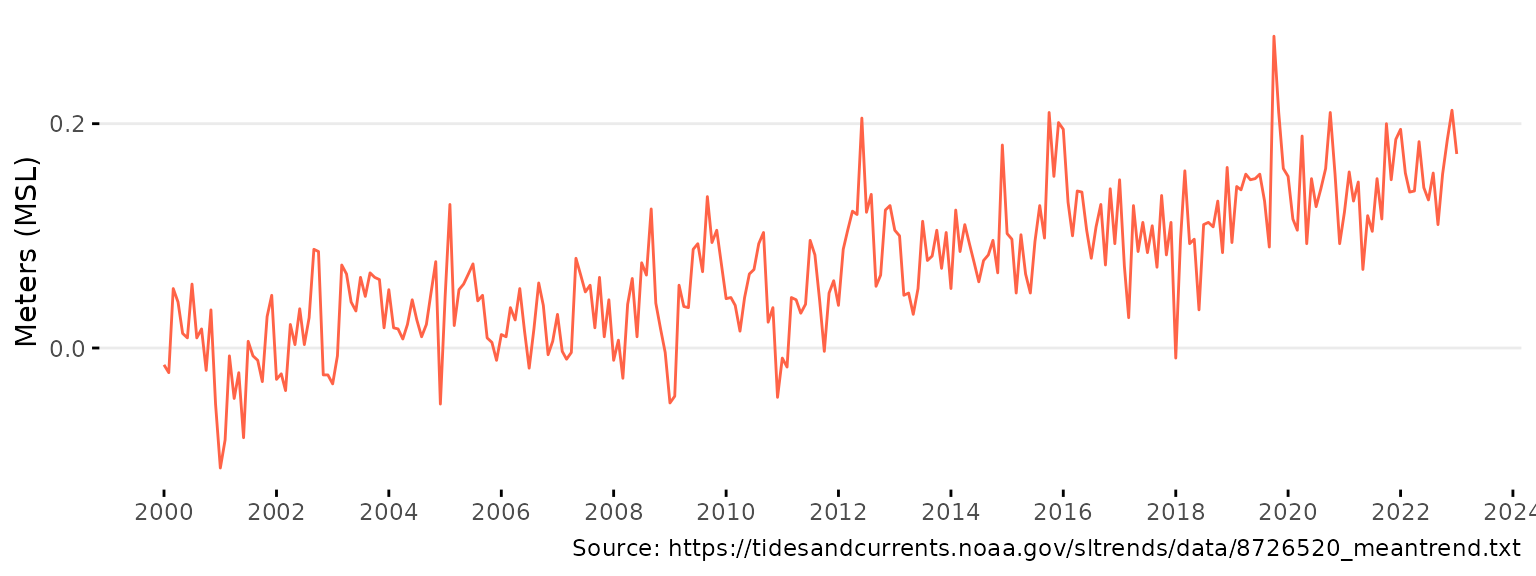
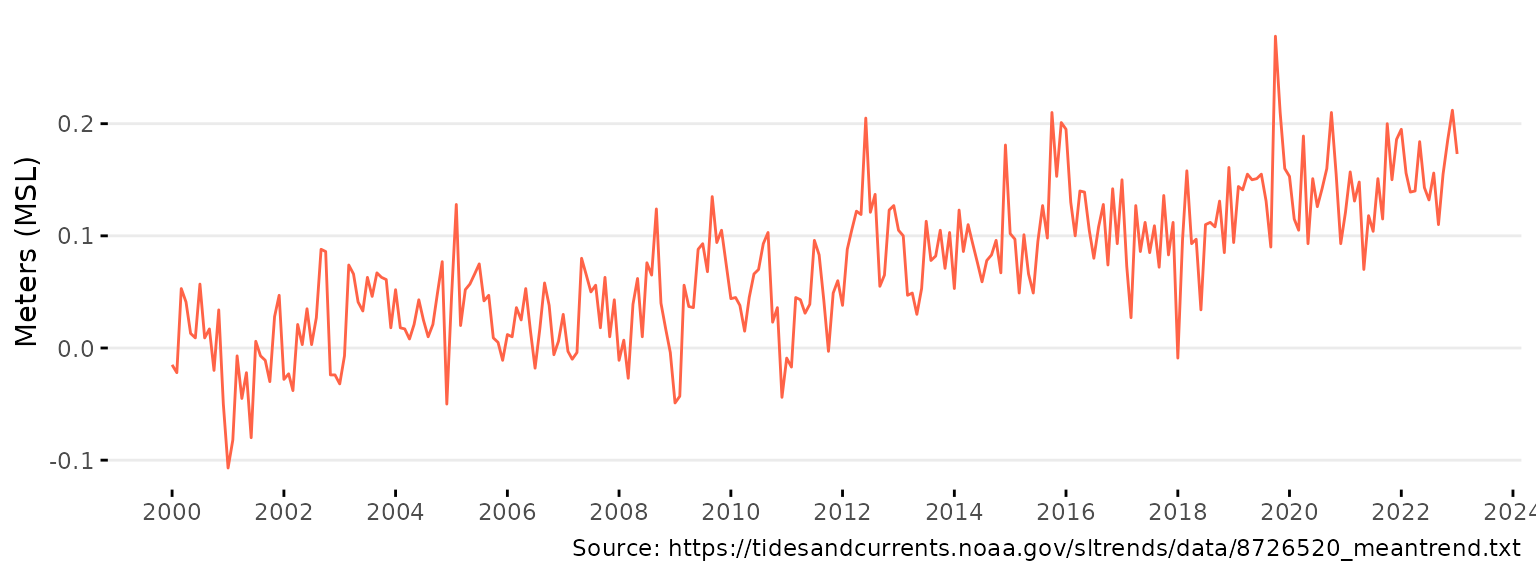
Deploying to gh-pages from @ tbep-tech/slrcsap@6c4b8cc1cbcf0d20b5f163878e25b505e070ef27 🚀

diff --git a/articles/slrcsap.html b/articles/slrcsap.html
@@ -58,6 +58,7 @@
 
       <h1>Getting started</h1>
             
+            <h4 data-toc-skip class="date">2025-05-23</h4>
       
       <small class="dont-index">Source: <a href="https://github.com/tbep-tech/slrcsap/blob/main/vignettes/slrcsap.Rmd"><code>vignettes/slrcsap.Rmd</code></a></small>
       <div class="d-none name"><code>slrcsap.Rmd</code></div>
@@ -159,8 +160,8 @@ add a title and change the theme.</p>
 <p>Sea level rise scenarios can be downloaded using the
 <code><a href="../reference/get_scenario.html">get_scenario()</a></code> function. Data are downloaded from the <a href="https://sealevel.nasa.gov/task-force-scenario-tool" target='"_blank' class="external-link">Interagency Sea Level Rise Scenario Tool</a>
 website. Details of the methods used in this tool are found in the
-technical report <span class="citation">[@sweet2022]</span>. The data
-are downloaded as an Excel sheet to from the URL <a href="https://sealevel.nasa.gov/task-force-scenario-tool?psmsl_id=520" class="external-link uri">https://sealevel.nasa.gov/task-force-scenario-tool?psmsl_id=520</a>,
+technical report <span class="citation">[1]</span>. The data are
+downloaded as an Excel sheet to from the URL <a href="https://sealevel.nasa.gov/task-force-scenario-tool?psmsl_id=520" class="external-link uri">https://sealevel.nasa.gov/task-force-scenario-tool?psmsl_id=520</a>,
 set to St. Petersburg, FL by default using regionally corrected NOAA
 2022 curves. Emissions scenarios of NOAA Intermediate Low, Intermediate,
 and Intermediate High are downloaded by default, as recommended by the
@@ -229,9 +230,23 @@ add a title, subtitle, and change the theme.</p>
 <p><img src="slrcsap_files/figure-html/unnamed-chunk-13-1.png" width="768" style="display: block; margin: auto;"></p>
 </div>
 </div>
-<div class="section level2">
-<h2 id="references">References<a class="anchor" aria-label="anchor" href="#references"></a>
+<div class="section level2 unnumbered">
+<h2 class="unnumbered" id="references">References<a class="anchor" aria-label="anchor" href="#references"></a>
 </h2>
+<div id="refs" class="references csl-bib-body" entry-spacing="0">
+<div id="ref-sweet2022" class="csl-entry">
+<div class="csl-left-margin">[1] </div>
+<div class="csl-right-inline">W.V. Sweet, B.D. Hamlington, R.E. Kopp, C.P.
+Weaver, P.L. Barnard, D. Bekaert, W. Brooks, M. Craghan, G. Dusek, T.
+Frederikse, G. Garner, A.S. Genz, J.P. Krasting, E. Larour, D. Marcy,
+J.J. Marra, J. Obeysekera, M. Osler, M. Pendleton, D. Roman, L. Schmied,
+W. Veatch, K.D. White, C. Zuzak, Global and regional sea level rise
+scenarios for the <span>U</span>nited <span>S</span>tates: Updated mean
+projections and extreme water level probabilities along
+<span>U.S.</span> coastlines, National Oceanic; Atmospheric
+Administration, National Ocean Service, Silver Spring, MD, 2022. <a href="https://oceanservice.noaa.gov/hazards/sealevelrise/noaa-nostechrpt01-global-regional-SLR-scenarios-US.pdf" class="external-link">https://oceanservice.noaa.gov/hazards/sealevelrise/noaa-nostechrpt01-global-regional-SLR-scenarios-US.pdf</a>.</div>
+</div>
+</div>
 </div>
   </main><aside class="col-md-3"><nav id="toc" aria-label="Table of contents"><h2>On this page</h2>
     </nav></aside>

diff --git a/reference/plot_sealevel.html b/reference/plot_sealevel.html
@@ -51,7 +51,7 @@
 <span>  xrng <span class="op">=</span> <span class="cn">NULL</span>,</span>
 <span>  xbrk <span class="op">=</span> <span class="fl">10</span>,</span>
 <span>  yrng <span class="op">=</span> <span class="cn">NULL</span>,</span>
-<span>  ybrk <span class="op">=</span> <span class="fl">3</span></span>
+<span>  ybrk <span class="op">=</span> <span class="fl">5</span></span>
 <span><span class="op">)</span></span></code></pre></div>
     </div>
 
@@ -88,7 +88,7 @@
 
 
 <dt id="arg-ybrk">ybrk<a class="anchor" aria-label="anchor" href="#arg-ybrk"></a></dt>
-<dd><p>numeric, number of y-axis breaks. Default is <code>3</code>.</p></dd>
+<dd><p>numeric, number of y-axis breaks. Default is <code>5</code>.</p></dd>
 
 </dl></div>
     <div class="section level2">
